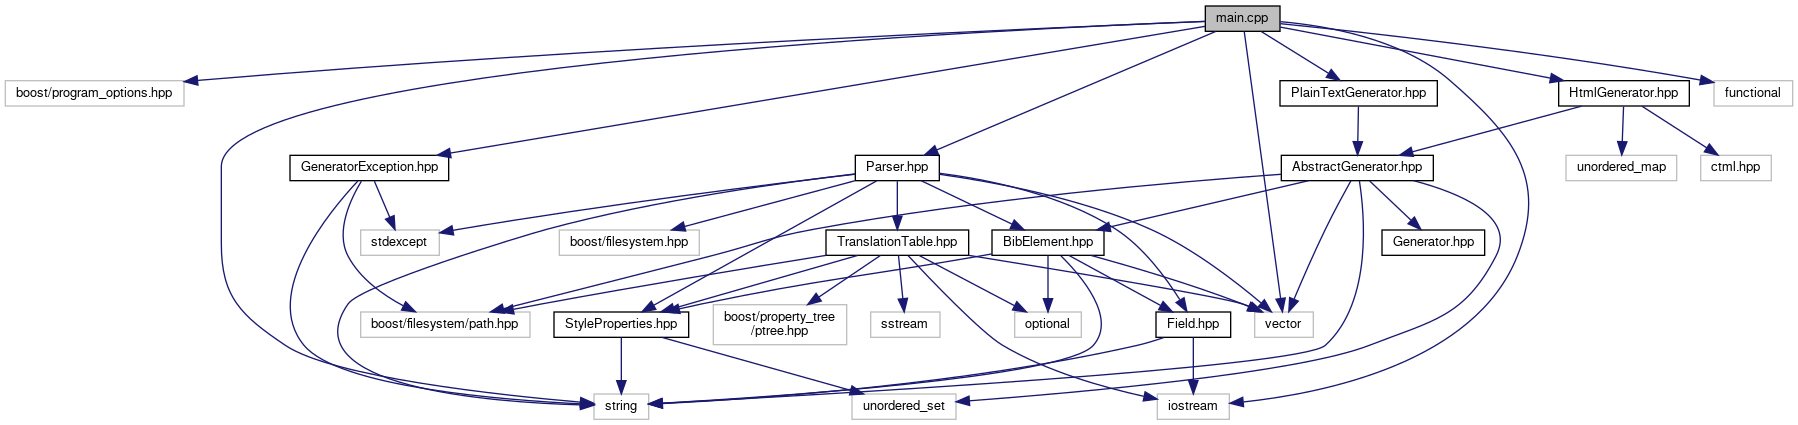
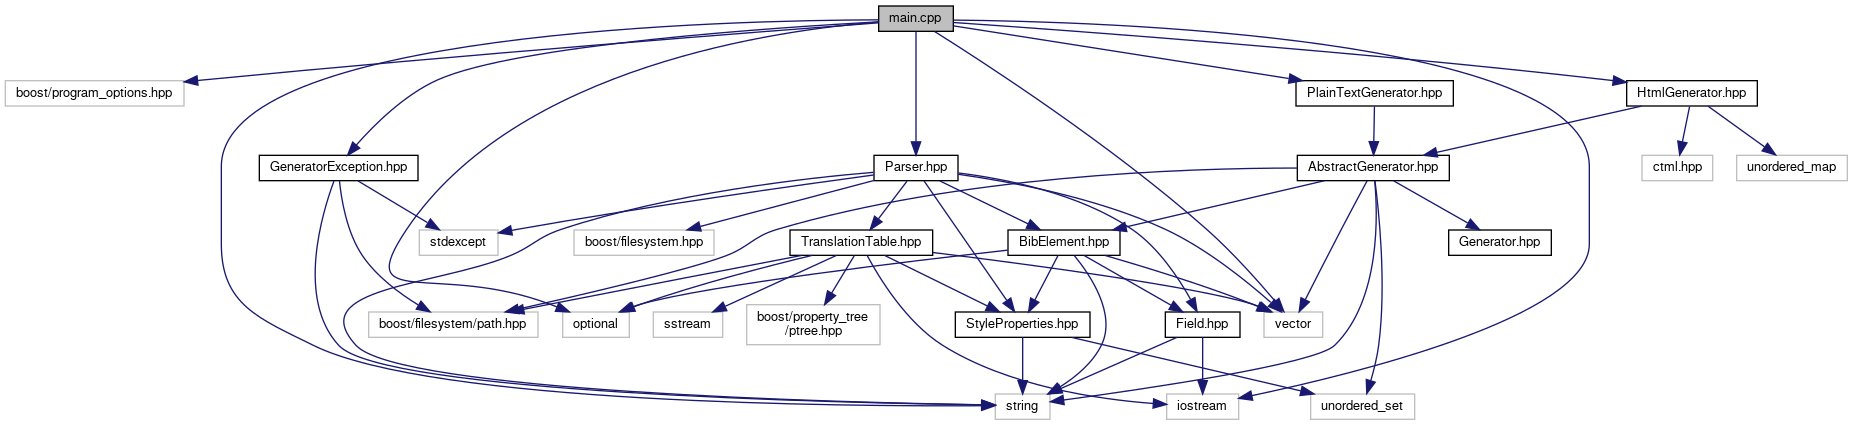
deploy: 4b4216cb2d80610765c0f58ca2ae5a884850b7c6

diff --git a/main_8cpp_source.html b/main_8cpp_source.html
@@ -100,8 +100,8 @@ $(document).ready(function(){initNavTree('main_8cpp_source.html',''); initResiza
 <div class="line"><a name="l00002"></a><span class="lineno">    2</span>&#160;<span class="preprocessor">#include &lt;<a class="code" href="_generator_exception_8hpp.html">GeneratorException.hpp</a>&gt;</span></div>
 <div class="line"><a name="l00003"></a><span class="lineno">    3</span>&#160;<span class="preprocessor">#include &lt;<a class="code" href="_plain_text_generator_8hpp.html">PlainTextGenerator.hpp</a>&gt;</span></div>
 <div class="line"><a name="l00004"></a><span class="lineno">    4</span>&#160;<span class="preprocessor">#include &lt;<a class="code" href="_html_generator_8hpp.html">HtmlGenerator.hpp</a>&gt;</span></div>
-<div class="line"><a name="l00005"></a><span class="lineno">    5</span>&#160;<span class="preprocessor">#include &lt;functional&gt;</span></div>
-<div class="line"><a name="l00006"></a><span class="lineno">    6</span>&#160;<span class="preprocessor">#include &lt;<a class="code" href="_parser_8hpp.html">Parser.hpp</a>&gt;</span></div>
+<div class="line"><a name="l00005"></a><span class="lineno">    5</span>&#160;<span class="preprocessor">#include &lt;<a class="code" href="_parser_8hpp.html">Parser.hpp</a>&gt;</span></div>
+<div class="line"><a name="l00006"></a><span class="lineno">    6</span>&#160;<span class="preprocessor">#include &lt;optional&gt;</span></div>
 <div class="line"><a name="l00007"></a><span class="lineno">    7</span>&#160;<span class="preprocessor">#include &lt;iostream&gt;</span></div>
 <div class="line"><a name="l00008"></a><span class="lineno">    8</span>&#160;<span class="preprocessor">#include &lt;vector&gt;</span></div>
 <div class="line"><a name="l00009"></a><span class="lineno">    9</span>&#160;<span class="preprocessor">#include &lt;string&gt;</span></div>
@@ -118,7 +118,7 @@ $(document).ready(function(){initNavTree('main_8cpp_source.html',''); initResiza
 <div class="line"><a name="l00020"></a><span class="lineno">   20</span>&#160;    <span class="keyword">const</span> <span class="keyword">auto</span> conflict = (... + (vm.count(opts) &amp;&amp; !vm[opts].defaulted())) &gt;= 2;</div>
 <div class="line"><a name="l00021"></a><span class="lineno">   21</span>&#160;    <span class="keywordflow">if</span> (conflict) {</div>
 <div class="line"><a name="l00022"></a><span class="lineno">   22</span>&#160;      <span class="keywordflow">throw</span> std::logic_error(</div>
-<div class="line"><a name="l00023"></a><span class="lineno">   23</span>&#160;          <span class="stringliteral">&quot;Conflicting arguments detected: Only zero or one of [&quot;</span> + (... + (opts + <span class="stringliteral">&quot;, &quot;</span>s)) + <span class="stringliteral">&quot;] is allowed.&quot;</span></div>
+<div class="line"><a name="l00023"></a><span class="lineno">   23</span>&#160;          <span class="stringliteral">&quot;Conflicting arguments detected: Only zero or one of [&quot;</span>s + (... + (opts + <span class="stringliteral">&quot;, &quot;</span>s)) + <span class="stringliteral">&quot;] is allowed.&quot;</span>s</div>
 <div class="line"><a name="l00024"></a><span class="lineno">   24</span>&#160;      );</div>
 <div class="line"><a name="l00025"></a><span class="lineno">   25</span>&#160;    }</div>
 <div class="line"><a name="l00026"></a><span class="lineno">   26</span>&#160;    <span class="keywordflow">return</span> *<span class="keyword">this</span>;</div>
@@ -137,7 +137,7 @@ $(document).ready(function(){initNavTree('main_8cpp_source.html',''); initResiza
 <div class="line"><a name="l00039"></a><span class="lineno">   39</span>&#160;    <span class="keyword">const</span> <span class="keyword">auto</span> allRequired = (... &amp;&amp; (vm.count(requiredOptions) != 0 &amp;&amp; !vm[requiredOptions].defaulted()));</div>
 <div class="line"><a name="l00040"></a><span class="lineno">   40</span>&#160;    <span class="keywordflow">if</span> (base &amp;&amp; !allRequired)</div>
 <div class="line"><a name="l00041"></a><span class="lineno">   41</span>&#160;      <span class="keywordflow">throw</span> std::logic_error(</div>
-<div class="line"><a name="l00042"></a><span class="lineno">   42</span>&#160;          std::string(<span class="stringliteral">&quot;Option &#39;&quot;</span>) + baseOption + <span class="stringliteral">&quot;&#39; requires options [&quot;</span> + (... + (requiredOptions + <span class="stringliteral">&quot;, &quot;</span>s)) + <span class="stringliteral">&quot;].&quot;</span></div>
+<div class="line"><a name="l00042"></a><span class="lineno">   42</span>&#160;          <span class="stringliteral">&quot;Option &#39;&quot;</span>s + baseOption + <span class="stringliteral">&quot;&#39; requires options [&quot;</span>s + (... + (requiredOptions + <span class="stringliteral">&quot;, &quot;</span>s)) + <span class="stringliteral">&quot;].&quot;</span>s</div>
 <div class="line"><a name="l00043"></a><span class="lineno">   43</span>&#160;      );</div>
 <div class="line"><a name="l00044"></a><span class="lineno">   44</span>&#160;    <span class="keywordflow">return</span> *<span class="keyword">this</span>;</div>
 <div class="line"><a name="l00045"></a><span class="lineno">   45</span>&#160;  }</div>
@@ -154,57 +154,61 @@ $(document).ready(function(){initNavTree('main_8cpp_source.html',''); initResiza
 <div class="line"><a name="l00056"></a><span class="lineno">   56</span>&#160;            <span class="stringliteral">&quot;pathname for output (default is stdout)&quot;</span></div>
 <div class="line"><a name="l00057"></a><span class="lineno">   57</span>&#160;        )</div>
 <div class="line"><a name="l00058"></a><span class="lineno">   58</span>&#160;        (<span class="stringliteral">&quot;table,t&quot;</span>, po::value&lt;fs::path&gt;()-&gt;required(), <span class="stringliteral">&quot;full pathname of translation-table&quot;</span>)</div>
-<div class="line"><a name="l00059"></a><span class="lineno">   59</span>&#160;        (<span class="stringliteral">&quot;input,i&quot;</span>, po::value&lt;std::vector&lt;fs::path&gt;&gt;()-&gt;multitoken(), <span class="stringliteral">&quot;file(s) to handle&quot;</span>)</div>
+<div class="line"><a name="l00059"></a><span class="lineno">   59</span>&#160;        (<span class="stringliteral">&quot;input,i&quot;</span>, po::value&lt;std::vector&lt;fs::path&gt;&gt;()-&gt;multitoken()-&gt;required(), <span class="stringliteral">&quot;file(s) to handle&quot;</span>)</div>
 <div class="line"><a name="l00060"></a><span class="lineno">   60</span>&#160;        (<span class="stringliteral">&quot;html,H&quot;</span>, po::bool_switch()-&gt;default_value(<span class="keyword">false</span>), <span class="stringliteral">&quot;set output-type to html&quot;</span>)</div>
 <div class="line"><a name="l00061"></a><span class="lineno">   61</span>&#160;        (<span class="stringliteral">&quot;xml,X&quot;</span>, po::bool_switch()-&gt;default_value(<span class="keyword">false</span>), <span class="stringliteral">&quot;set output-type to xml&quot;</span>)</div>
 <div class="line"><a name="l00062"></a><span class="lineno">   62</span>&#160;        (<span class="stringliteral">&quot;pdf,P&quot;</span>, po::bool_switch()-&gt;default_value(<span class="keyword">false</span>), <span class="stringliteral">&quot;set output-type to xml&quot;</span>)</div>
-<div class="line"><a name="l00063"></a><span class="lineno">   63</span>&#160;        (<span class="stringliteral">&quot;filter,f&quot;</span>, po::value&lt;std::vector&lt;std::string&gt;&gt;()-&gt;multitoken(), <span class="stringliteral">&quot;filter output for a style-name(s)&quot;</span>)</div>
-<div class="line"><a name="l00064"></a><span class="lineno">   64</span>&#160;        (<span class="stringliteral">&quot;sort,s&quot;</span>, po::value&lt;std::string&gt;()-&gt;default_value(<span class="stringliteral">&quot;&quot;</span>), <span class="stringliteral">&quot;sort output for a field&quot;</span>);</div>
-<div class="line"><a name="l00065"></a><span class="lineno">   65</span>&#160; </div>
-<div class="line"><a name="l00066"></a><span class="lineno">   66</span>&#160;    po::variables_map vm;</div>
-<div class="line"><a name="l00067"></a><span class="lineno">   67</span>&#160;    store(parse_command_line(argc, argv, desc), vm);</div>
-<div class="line"><a name="l00068"></a><span class="lineno">   68</span>&#160; </div>
-<div class="line"><a name="l00069"></a><span class="lineno">   69</span>&#160;    <span class="keywordflow">if</span> (vm.count(<span class="stringliteral">&quot;help&quot;</span>)) {</div>
-<div class="line"><a name="l00070"></a><span class="lineno">   70</span>&#160;      std::cout &lt;&lt; desc &lt;&lt; <span class="stringliteral">&quot;\n&quot;</span>;</div>
-<div class="line"><a name="l00071"></a><span class="lineno">   71</span>&#160;      <span class="keywordflow">return</span> 0;</div>
-<div class="line"><a name="l00072"></a><span class="lineno">   72</span>&#160;    }</div>
-<div class="line"><a name="l00073"></a><span class="lineno">   73</span>&#160; </div>
-<div class="line"><a name="l00074"></a><span class="lineno">   74</span>&#160;    <a class="code" href="struct_conflict_adder.html">ConflictAdder</a>{vm}</div>
-<div class="line"><a name="l00075"></a><span class="lineno">   75</span>&#160;        (<span class="stringliteral">&quot;html&quot;</span>, <span class="stringliteral">&quot;xml&quot;</span>, <span class="stringliteral">&quot;pdf&quot;</span>);</div>
-<div class="line"><a name="l00076"></a><span class="lineno">   76</span>&#160; </div>
-<div class="line"><a name="l00077"></a><span class="lineno">   77</span>&#160;    <a class="code" href="struct_dependency_adder.html">DependencyAdder</a>{vm}</div>
-<div class="line"><a name="l00078"></a><span class="lineno">   78</span>&#160;      (<span class="stringliteral">&quot;html&quot;</span>, <span class="stringliteral">&quot;input&quot;</span>, <span class="stringliteral">&quot;table&quot;</span>)</div>
-<div class="line"><a name="l00079"></a><span class="lineno">   79</span>&#160;      (<span class="stringliteral">&quot;xml&quot;</span>, <span class="stringliteral">&quot;input&quot;</span>, <span class="stringliteral">&quot;table&quot;</span>)</div>
-<div class="line"><a name="l00080"></a><span class="lineno">   80</span>&#160;      (<span class="stringliteral">&quot;pdf&quot;</span>, <span class="stringliteral">&quot;input&quot;</span>, <span class="stringliteral">&quot;table&quot;</span>);</div>
-<div class="line"><a name="l00081"></a><span class="lineno">   81</span>&#160; </div>
-<div class="line"><a name="l00082"></a><span class="lineno">   82</span>&#160;    <span class="keyword">const</span> <a class="code" href="class_parser.html">Parser</a> parser{vm[<span class="stringliteral">&quot;table&quot;</span>].as&lt;fs::path&gt;(), vm[<span class="stringliteral">&quot;filter&quot;</span>].as&lt;std::vector&lt;std::string&gt;&gt;()};</div>
-<div class="line"><a name="l00083"></a><span class="lineno">   83</span>&#160;    <span class="keyword">const</span> <span class="keyword">auto</span> elements = parser.<a class="code" href="class_parser.html#a7563d76387b215b734de64270a11d528">generate</a>(</div>
-<div class="line"><a name="l00084"></a><span class="lineno">   84</span>&#160;        vm[<span class="stringliteral">&quot;input&quot;</span>].as&lt;std::vector&lt;fs::path&gt;&gt;(),</div>
-<div class="line"><a name="l00085"></a><span class="lineno">   85</span>&#160;        vm[<span class="stringliteral">&quot;sort&quot;</span>].as&lt;std::string&gt;()</div>
-<div class="line"><a name="l00086"></a><span class="lineno">   86</span>&#160;    );</div>
-<div class="line"><a name="l00087"></a><span class="lineno">   87</span>&#160; </div>
-<div class="line"><a name="l00088"></a><span class="lineno">   88</span>&#160;    std::string output;</div>
-<div class="line"><a name="l00089"></a><span class="lineno">   89</span>&#160;    <span class="keywordflow">if</span> (vm[<span class="stringliteral">&quot;html&quot;</span>].as&lt;bool&gt;()) output = <a class="code" href="struct_html_generator.html">HtmlGenerator</a>(elements).<a class="code" href="struct_html_generator.html#a20c7fa21d61d716904cebb7b5f870cf7">write</a>();</div>
-<div class="line"><a name="l00090"></a><span class="lineno">   90</span>&#160;    <span class="keywordflow">else</span> output = <a class="code" href="struct_plain_text_generator.html">PlainTextGenerator</a>(elements).<a class="code" href="struct_plain_text_generator.html#a40c97e4478815514e8527323e4fc8b06">write</a>();</div>
+<div class="line"><a name="l00063"></a><span class="lineno">   63</span>&#160;        (</div>
+<div class="line"><a name="l00064"></a><span class="lineno">   64</span>&#160;            <span class="stringliteral">&quot;filter,f&quot;</span>,</div>
+<div class="line"><a name="l00065"></a><span class="lineno">   65</span>&#160;            po::value&lt;std::vector&lt;std::string&gt;&gt;()-&gt;multitoken()-&gt;default_value({}, <span class="stringliteral">&quot;&quot;</span>),</div>
+<div class="line"><a name="l00066"></a><span class="lineno">   66</span>&#160;            <span class="stringliteral">&quot;filter output for a style-name(s)&quot;</span></div>
+<div class="line"><a name="l00067"></a><span class="lineno">   67</span>&#160;        )</div>
+<div class="line"><a name="l00068"></a><span class="lineno">   68</span>&#160;        (<span class="stringliteral">&quot;sort,s&quot;</span>, po::value&lt;std::string&gt;()-&gt;default_value(<span class="stringliteral">&quot;&quot;</span>), <span class="stringliteral">&quot;sort output for a field&quot;</span>);</div>
+<div class="line"><a name="l00069"></a><span class="lineno">   69</span>&#160; </div>
+<div class="line"><a name="l00070"></a><span class="lineno">   70</span>&#160;    po::variables_map vm;</div>
+<div class="line"><a name="l00071"></a><span class="lineno">   71</span>&#160;    store(parse_command_line(argc, argv, desc), vm);</div>
+<div class="line"><a name="l00072"></a><span class="lineno">   72</span>&#160; </div>
+<div class="line"><a name="l00073"></a><span class="lineno">   73</span>&#160;    <span class="keywordflow">if</span> (vm.count(<span class="stringliteral">&quot;help&quot;</span>)) {</div>
+<div class="line"><a name="l00074"></a><span class="lineno">   74</span>&#160;      std::cout &lt;&lt; desc &lt;&lt; <span class="stringliteral">&quot;\n&quot;</span>;</div>
+<div class="line"><a name="l00075"></a><span class="lineno">   75</span>&#160;      <span class="keywordflow">return</span> 0;</div>
+<div class="line"><a name="l00076"></a><span class="lineno">   76</span>&#160;    }</div>
+<div class="line"><a name="l00077"></a><span class="lineno">   77</span>&#160; </div>
+<div class="line"><a name="l00078"></a><span class="lineno">   78</span>&#160;    <a class="code" href="struct_conflict_adder.html">ConflictAdder</a>{vm}</div>
+<div class="line"><a name="l00079"></a><span class="lineno">   79</span>&#160;        (<span class="stringliteral">&quot;html&quot;</span>, <span class="stringliteral">&quot;xml&quot;</span>, <span class="stringliteral">&quot;pdf&quot;</span>);</div>
+<div class="line"><a name="l00080"></a><span class="lineno">   80</span>&#160; </div>
+<div class="line"><a name="l00081"></a><span class="lineno">   81</span>&#160;    <a class="code" href="struct_dependency_adder.html">DependencyAdder</a>{vm}</div>
+<div class="line"><a name="l00082"></a><span class="lineno">   82</span>&#160;        (<span class="stringliteral">&quot;html&quot;</span>, <span class="stringliteral">&quot;input&quot;</span>, <span class="stringliteral">&quot;table&quot;</span>)</div>
+<div class="line"><a name="l00083"></a><span class="lineno">   83</span>&#160;        (<span class="stringliteral">&quot;xml&quot;</span>, <span class="stringliteral">&quot;input&quot;</span>, <span class="stringliteral">&quot;table&quot;</span>)</div>
+<div class="line"><a name="l00084"></a><span class="lineno">   84</span>&#160;        (<span class="stringliteral">&quot;pdf&quot;</span>, <span class="stringliteral">&quot;input&quot;</span>, <span class="stringliteral">&quot;table&quot;</span>);</div>
+<div class="line"><a name="l00085"></a><span class="lineno">   85</span>&#160; </div>
+<div class="line"><a name="l00086"></a><span class="lineno">   86</span>&#160;    <span class="keyword">const</span> <a class="code" href="class_parser.html">Parser</a> parser{vm[<span class="stringliteral">&quot;table&quot;</span>].as&lt;fs::path&gt;(), vm[<span class="stringliteral">&quot;filter&quot;</span>].as&lt;std::vector&lt;std::string&gt;&gt;()};</div>
+<div class="line"><a name="l00087"></a><span class="lineno">   87</span>&#160;    <span class="keyword">const</span> <span class="keyword">auto</span> elements = parser.<a class="code" href="class_parser.html#a7563d76387b215b734de64270a11d528">generate</a>(</div>
+<div class="line"><a name="l00088"></a><span class="lineno">   88</span>&#160;        vm[<span class="stringliteral">&quot;input&quot;</span>].as&lt;std::vector&lt;fs::path&gt;&gt;(),</div>
+<div class="line"><a name="l00089"></a><span class="lineno">   89</span>&#160;        vm[<span class="stringliteral">&quot;sort&quot;</span>].as&lt;std::string&gt;().empty() ? std::nullopt : std::optional(vm[<span class="stringliteral">&quot;sort&quot;</span>].as&lt;std::string&gt;())</div>
+<div class="line"><a name="l00090"></a><span class="lineno">   90</span>&#160;    );</div>
 <div class="line"><a name="l00091"></a><span class="lineno">   91</span>&#160; </div>
-<div class="line"><a name="l00092"></a><span class="lineno">   92</span>&#160;    <span class="keywordflow">if</span> (vm[<span class="stringliteral">&quot;output&quot;</span>].defaulted()) {</div>
-<div class="line"><a name="l00093"></a><span class="lineno">   93</span>&#160;      std::cout &lt;&lt; output &lt;&lt; <span class="charliteral">&#39;\n&#39;</span>;</div>
-<div class="line"><a name="l00094"></a><span class="lineno">   94</span>&#160;    } <span class="keywordflow">else</span> {</div>
-<div class="line"><a name="l00095"></a><span class="lineno">   95</span>&#160;      std::ofstream f{vm[<span class="stringliteral">&quot;output&quot;</span>].as&lt;boost::filesystem::path&gt;().<span class="keywordtype">string</span>()};</div>
-<div class="line"><a name="l00096"></a><span class="lineno">   96</span>&#160;      <span class="keywordflow">if</span> (f.is_open()) {</div>
-<div class="line"><a name="l00097"></a><span class="lineno">   97</span>&#160;        f &lt;&lt; output;</div>
-<div class="line"><a name="l00098"></a><span class="lineno">   98</span>&#160;        f.close();</div>
-<div class="line"><a name="l00099"></a><span class="lineno">   99</span>&#160;      } <span class="keywordflow">else</span> {</div>
-<div class="line"><a name="l00100"></a><span class="lineno">  100</span>&#160;        <span class="keywordflow">throw</span> <a class="code" href="struct_generator_exception.html">GeneratorException</a>(<span class="stringliteral">&quot;Could not write to file: &quot;</span> + vm[<span class="stringliteral">&quot;output&quot;</span>].as&lt;boost::filesystem::path&gt;().<span class="keywordtype">string</span>());</div>
-<div class="line"><a name="l00101"></a><span class="lineno">  101</span>&#160;      }</div>
-<div class="line"><a name="l00102"></a><span class="lineno">  102</span>&#160;    }</div>
-<div class="line"><a name="l00103"></a><span class="lineno">  103</span>&#160;  }</div>
-<div class="line"><a name="l00104"></a><span class="lineno">  104</span>&#160;  <span class="keywordflow">catch</span> (std::exception &amp;e) {</div>
-<div class="line"><a name="l00105"></a><span class="lineno">  105</span>&#160;    std::cerr &lt;&lt; e.what() &lt;&lt; <span class="stringliteral">&quot;\n&quot;</span>;</div>
-<div class="line"><a name="l00106"></a><span class="lineno">  106</span>&#160;    <span class="keywordflow">return</span> -1;</div>
+<div class="line"><a name="l00092"></a><span class="lineno">   92</span>&#160;    std::string output;</div>
+<div class="line"><a name="l00093"></a><span class="lineno">   93</span>&#160;    <span class="keywordflow">if</span> (vm[<span class="stringliteral">&quot;html&quot;</span>].as&lt;bool&gt;()) output = <a class="code" href="struct_html_generator.html">HtmlGenerator</a>(elements).<a class="code" href="struct_html_generator.html#a20c7fa21d61d716904cebb7b5f870cf7">write</a>();</div>
+<div class="line"><a name="l00094"></a><span class="lineno">   94</span>&#160;    <span class="keywordflow">else</span> output = <a class="code" href="struct_plain_text_generator.html">PlainTextGenerator</a>(elements).<a class="code" href="struct_plain_text_generator.html#a40c97e4478815514e8527323e4fc8b06">write</a>();</div>
+<div class="line"><a name="l00095"></a><span class="lineno">   95</span>&#160; </div>
+<div class="line"><a name="l00096"></a><span class="lineno">   96</span>&#160;    <span class="keywordflow">if</span> (vm[<span class="stringliteral">&quot;output&quot;</span>].defaulted()) {</div>
+<div class="line"><a name="l00097"></a><span class="lineno">   97</span>&#160;      std::cout &lt;&lt; output &lt;&lt; <span class="charliteral">&#39;\n&#39;</span>;</div>
+<div class="line"><a name="l00098"></a><span class="lineno">   98</span>&#160;    } <span class="keywordflow">else</span> {</div>
+<div class="line"><a name="l00099"></a><span class="lineno">   99</span>&#160;      std::ofstream f{vm[<span class="stringliteral">&quot;output&quot;</span>].as&lt;boost::filesystem::path&gt;().<span class="keywordtype">string</span>()};</div>
+<div class="line"><a name="l00100"></a><span class="lineno">  100</span>&#160;      <span class="keywordflow">if</span> (f.is_open()) {</div>
+<div class="line"><a name="l00101"></a><span class="lineno">  101</span>&#160;        f &lt;&lt; output;</div>
+<div class="line"><a name="l00102"></a><span class="lineno">  102</span>&#160;        f.close();</div>
+<div class="line"><a name="l00103"></a><span class="lineno">  103</span>&#160;      } <span class="keywordflow">else</span> {</div>
+<div class="line"><a name="l00104"></a><span class="lineno">  104</span>&#160;        <span class="keywordflow">throw</span> <a class="code" href="struct_generator_exception.html">GeneratorException</a>(<span class="stringliteral">&quot;Could not write to file: &quot;</span> + vm[<span class="stringliteral">&quot;output&quot;</span>].as&lt;boost::filesystem::path&gt;().<span class="keywordtype">string</span>());</div>
+<div class="line"><a name="l00105"></a><span class="lineno">  105</span>&#160;      }</div>
+<div class="line"><a name="l00106"></a><span class="lineno">  106</span>&#160;    }</div>
 <div class="line"><a name="l00107"></a><span class="lineno">  107</span>&#160;  }</div>
-<div class="line"><a name="l00108"></a><span class="lineno">  108</span>&#160;  <span class="keywordflow">return</span> 0;</div>
-<div class="line"><a name="l00109"></a><span class="lineno">  109</span>&#160;}</div>
+<div class="line"><a name="l00108"></a><span class="lineno">  108</span>&#160;  <span class="keywordflow">catch</span> (std::exception &amp;e) {</div>
+<div class="line"><a name="l00109"></a><span class="lineno">  109</span>&#160;    std::cerr &lt;&lt; e.what() &lt;&lt; <span class="stringliteral">&quot;\n&quot;</span>;</div>
+<div class="line"><a name="l00110"></a><span class="lineno">  110</span>&#160;    <span class="keywordflow">return</span> -1;</div>
+<div class="line"><a name="l00111"></a><span class="lineno">  111</span>&#160;  }</div>
+<div class="line"><a name="l00112"></a><span class="lineno">  112</span>&#160;  <span class="keywordflow">return</span> 0;</div>
+<div class="line"><a name="l00113"></a><span class="lineno">  113</span>&#160;}</div>
 </div><!-- fragment --></div><!-- contents -->
 </div><!-- doc-content -->
 <div class="ttc" id="astruct_conflict_adder_html"><div class="ttname"><a href="struct_conflict_adder.html">ConflictAdder</a></div><div class="ttdef"><b>Definition:</b> <a href="main_8cpp_source.html#l00015">main.cpp:15</a></div></div>

diff --git a/main_8cpp.html b/main_8cpp.html
@@ -103,8 +103,8 @@ $(document).ready(function(){initNavTree('main_8cpp.html',''); initResizable(); 
 <code>#include &lt;<a class="el" href="_generator_exception_8hpp_source.html">GeneratorException.hpp</a>&gt;</code><br />
 <code>#include &lt;<a class="el" href="_plain_text_generator_8hpp_source.html">PlainTextGenerator.hpp</a>&gt;</code><br />
 <code>#include &lt;<a class="el" href="_html_generator_8hpp_source.html">HtmlGenerator.hpp</a>&gt;</code><br />
-<code>#include &lt;functional&gt;</code><br />
 <code>#include &lt;<a class="el" href="_parser_8hpp_source.html">Parser.hpp</a>&gt;</code><br />
+<code>#include &lt;optional&gt;</code><br />
 <code>#include &lt;iostream&gt;</code><br />
 <code>#include &lt;vector&gt;</code><br />
 <code>#include &lt;string&gt;</code><br />
@@ -115,31 +115,30 @@ $(document).ready(function(){initNavTree('main_8cpp.html',''); initResizable(); 
 <div id="dynsection-0-content" class="dyncontent" style="display:none;">
 <div class="center"><img src="main_8cpp__incl.png" border="0" usemap="#main_8cpp" alt=""/></div>
 <map name="main_8cpp" id="main_8cpp">
-<area shape="rect" title=" " alt="" coords="1205,5,1280,32"/>
+<area shape="rect" title=" " alt="" coords="879,5,953,32"/>
 <area shape="rect" title=" " alt="" coords="5,80,184,107"/>
-<area shape="rect" href="_generator_exception_8hpp.html" title=" " alt="" coords="290,155,449,181"/>
-<area shape="rect" title=" " alt="" coords="594,393,649,420"/>
-<area shape="rect" href="_plain_text_generator_8hpp.html" title=" " alt="" coords="1280,80,1437,107"/>
-<area shape="rect" title=" " alt="" coords="1157,393,1229,420"/>
-<area shape="rect" title=" " alt="" coords="1255,311,1313,338"/>
-<area shape="rect" href="_html_generator_8hpp.html" title=" " alt="" coords="1559,80,1689,107"/>
-<area shape="rect" title=" " alt="" coords="1714,80,1793,107"/>
-<area shape="rect" href="_parser_8hpp.html" title=" " alt="" coords="855,155,939,181"/>
-<area shape="rect" title=" " alt="" coords="361,311,530,338"/>
-<area shape="rect" title=" " alt="" coords="361,229,439,256"/>
-<area shape="rect" href="_abstract_generator_8hpp.html" title=" " alt="" coords="1281,155,1433,181"/>
-<area shape="rect" href="_bib_element_8hpp.html" title=" " alt="" coords="992,229,1104,256"/>
-<area shape="rect" title=" " alt="" coords="852,393,956,420"/>
-<area shape="rect" href="_generator_8hpp.html" title=" " alt="" coords="1382,229,1485,256"/>
-<area shape="rect" href="_style_properties_8hpp.html" title=" " alt="" coords="554,311,689,338"/>
-<area shape="rect" href="_field_8hpp.html" title=" " alt="" coords="1156,311,1231,338"/>
-<area shape="rect" title=" " alt="" coords="1015,311,1081,338"/>
-<area shape="rect" title=" " alt="" coords="1566,155,1677,181"/>
-<area shape="rect" title=" " alt="" coords="1701,155,1771,181"/>
-<area shape="rect" href="_translation_table_8hpp.html" title=" " alt="" coords="826,229,969,256"/>
-<area shape="rect" title=" " alt="" coords="559,229,699,256"/>
-<area shape="rect" title=" " alt="" coords="713,304,847,345"/>
-<area shape="rect" title=" " alt="" coords="871,311,940,338"/>
+<area shape="rect" href="_generator_exception_8hpp.html" title=" " alt="" coords="259,155,418,181"/>
+<area shape="rect" title=" " alt="" coords="995,393,1050,420"/>
+<area shape="rect" href="_plain_text_generator_8hpp.html" title=" " alt="" coords="1296,80,1453,107"/>
+<area shape="rect" title=" " alt="" coords="1167,393,1239,420"/>
+<area shape="rect" title=" " alt="" coords="563,311,629,338"/>
+<area shape="rect" title=" " alt="" coords="1264,311,1323,338"/>
+<area shape="rect" href="_html_generator_8hpp.html" title=" " alt="" coords="1627,80,1757,107"/>
+<area shape="rect" href="_parser_8hpp.html" title=" " alt="" coords="874,155,958,181"/>
+<area shape="rect" title=" " alt="" coords="369,311,538,338"/>
+<area shape="rect" title=" " alt="" coords="419,229,498,256"/>
+<area shape="rect" href="_abstract_generator_8hpp.html" title=" " alt="" coords="1297,155,1449,181"/>
+<area shape="rect" href="_bib_element_8hpp.html" title=" " alt="" coords="1008,229,1120,256"/>
+<area shape="rect" title=" " alt="" coords="1311,393,1415,420"/>
+<area shape="rect" href="_generator_8hpp.html" title=" " alt="" coords="1449,229,1551,256"/>
+<area shape="rect" href="_style_properties_8hpp.html" title=" " alt="" coords="955,311,1090,338"/>
+<area shape="rect" href="_field_8hpp.html" title=" " alt="" coords="1165,311,1240,338"/>
+<area shape="rect" title=" " alt="" coords="1737,155,1847,181"/>
+<area shape="rect" title=" " alt="" coords="1642,155,1713,181"/>
+<area shape="rect" href="_translation_table_8hpp.html" title=" " alt="" coords="790,229,933,256"/>
+<area shape="rect" title=" " alt="" coords="574,229,714,256"/>
+<area shape="rect" title=" " alt="" coords="747,304,880,345"/>
+<area shape="rect" title=" " alt="" coords="653,311,723,338"/>
 </map>
 </div>
 </div>
